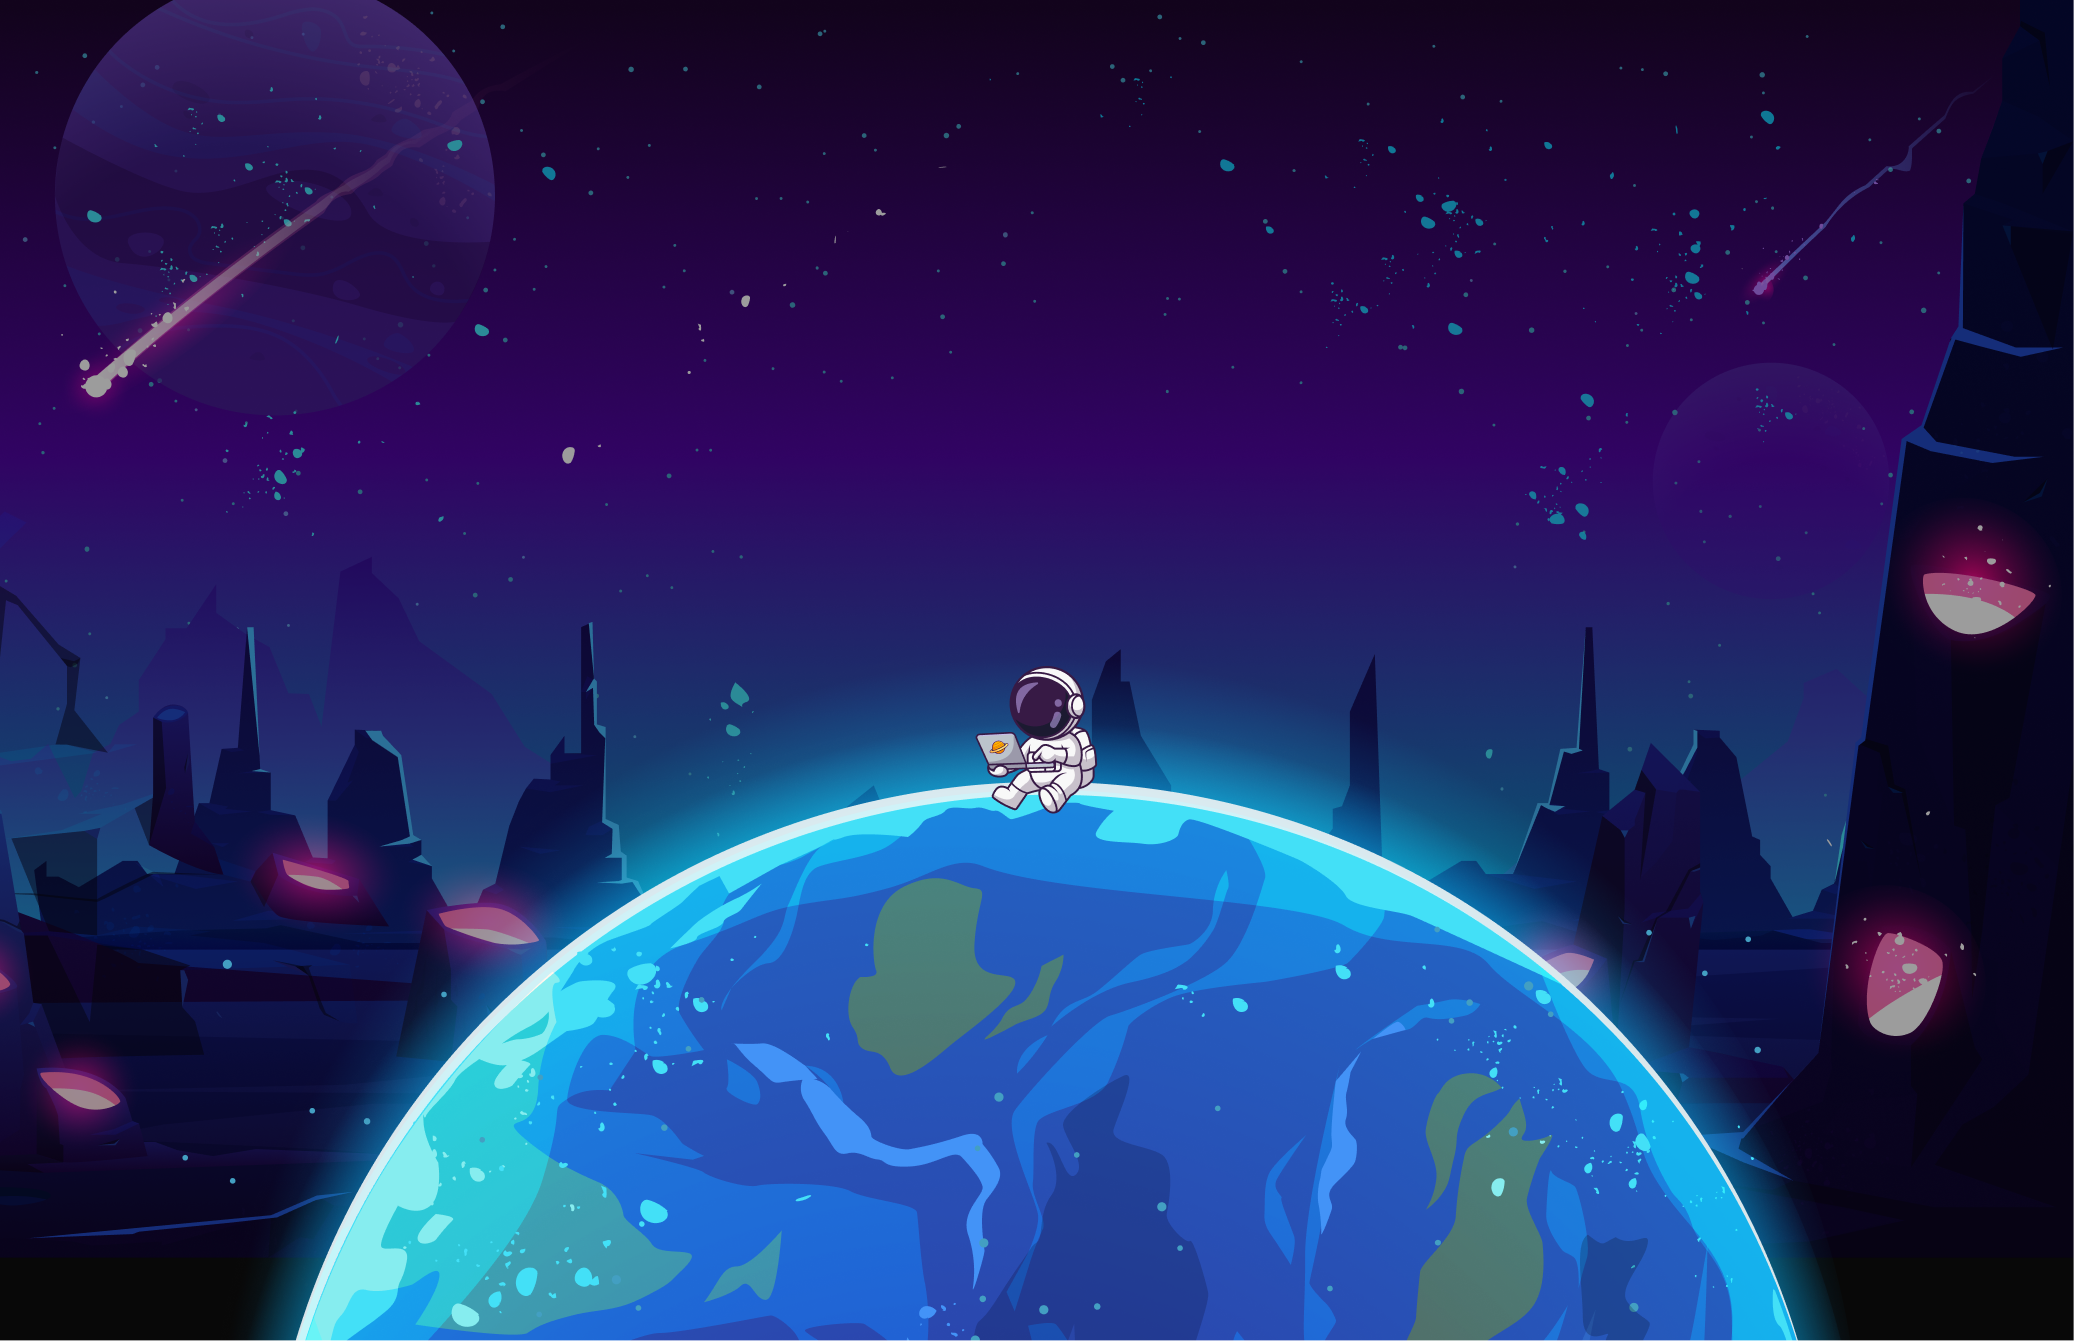
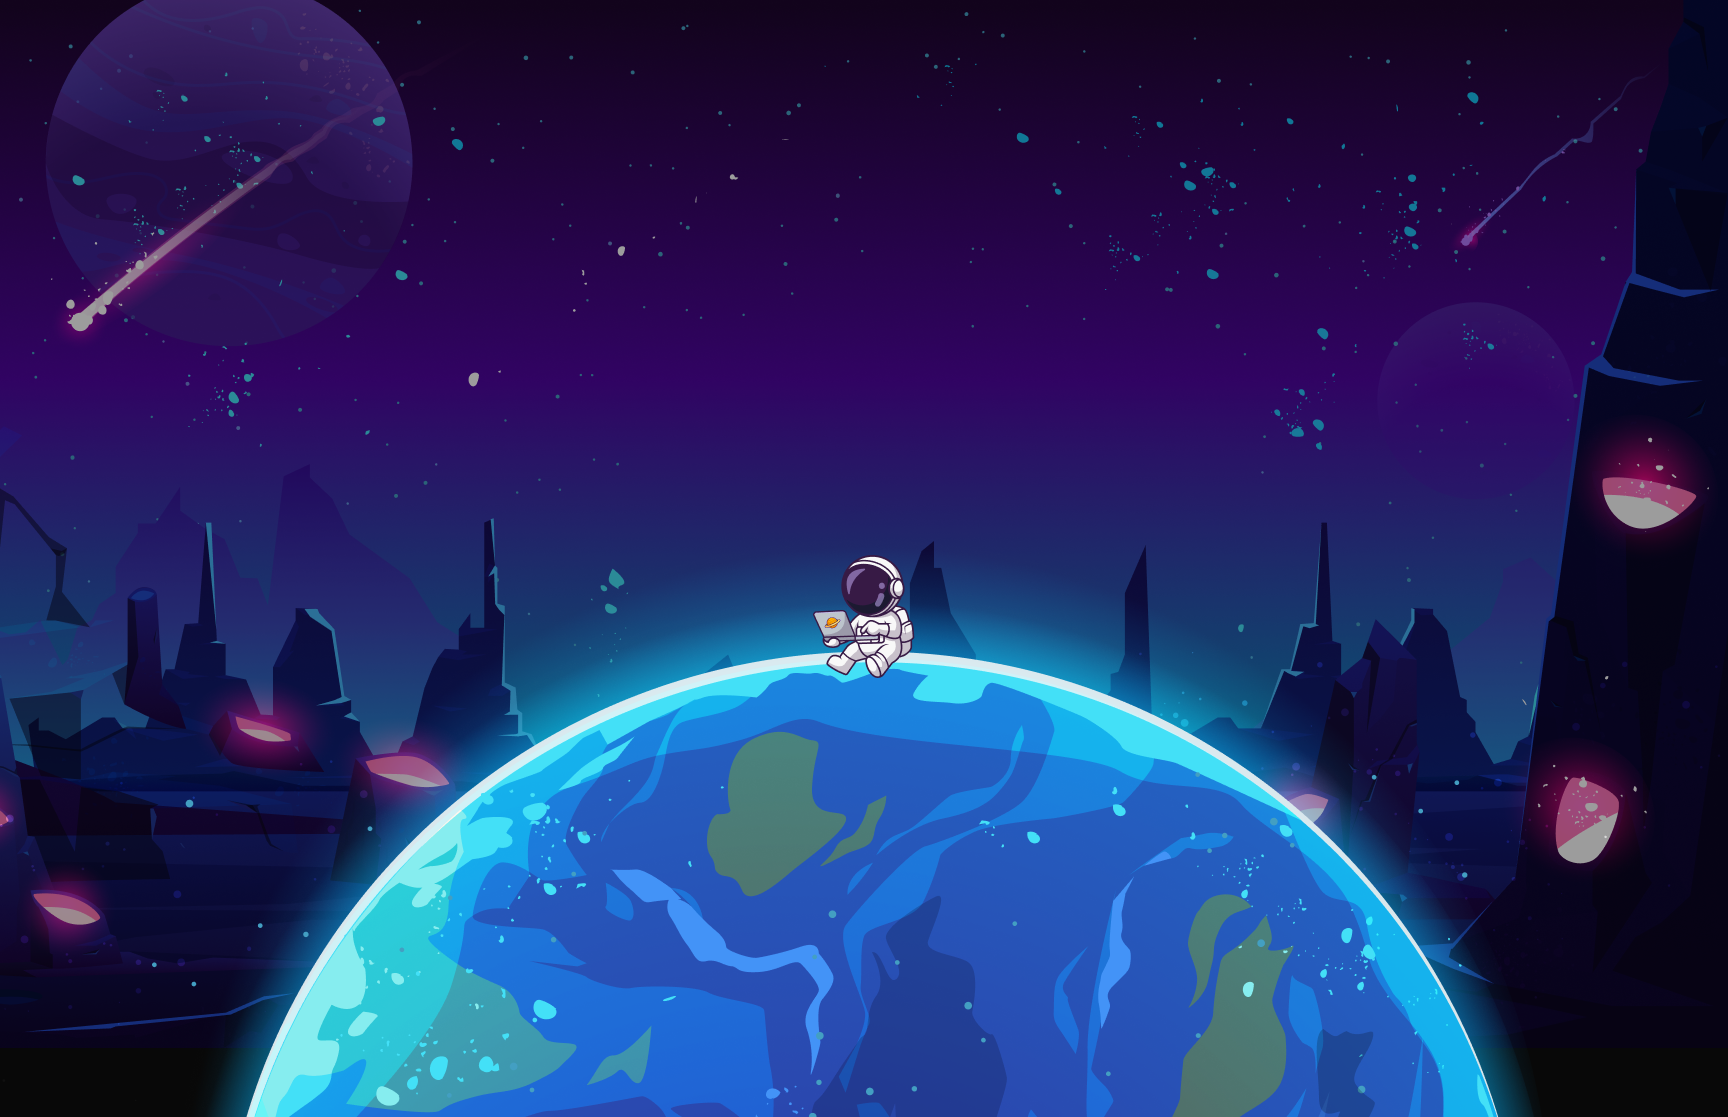
Atualizando

Changed region(s): [[0.4688, 0.5175, 0.5312, 0.6088], [0.9062, 0.7305, 0.9375, 0.761], [0.8438, 0.974, 0.875, 1.0]]

diff --git a/index.html b/index.html
@@ -20,6 +20,9 @@
     <link rel="preconnect" href="https://fonts.googleapis.com">
 <link rel="preconnect" href="https://fonts.gstatic.com" crossorigin>
 <link href="https://fonts.googleapis.com/css2?family=Poppins:ital@0;1&family=Roboto+Mono:ital,wght@1,500&family=Roboto:wght@400;500;700&display=swap" rel="stylesheet">
+<link rel="preconnect" href="https://fonts.googleapis.com">
+<link rel="preconnect" href="https://fonts.gstatic.com" crossorigin>
+<link href="https://fonts.googleapis.com/css2?family=Bebas+Neue&family=Orbitron:wght@500&display=swap" rel="stylesheet">
 
 </head>
 <body>
@@ -43,28 +46,38 @@
         </nav>
       </div>
     </header>
-    <main>
+    <main class="inicial-tela">
+
         <div id="pagina-inicial">
             <article id="home">
+              <h1><a href="#contato" class="Menucont">CONTACT ME</a></h1>
               <div class="myInfo">
                  <h1 class="textTittle"> Olá 👋<br />
                     <span class="auto-text"></span>
                 </h1>
                 <h2 class="subtitulo">Front-end Developer</h2>
                 <p class="mytext"></p>
+                <img class="box-p" src="/img/Group19.svg">
               </div>
             </article>
         </div>
     </main>
+    <div class="RdSociais">
+      <div class="ic-linkedin"><img src="/img/linkedin.svg" class="linkedin"></div>
+      <div class="ic-github"><img src="/img/github.svg" class="github"></div>
+      <div class="ic-insta"><img src="/img/insta.svg" class="instagram"></div>
+    </div>
     <article id="aboutme">
       <div class="sobre">
         <div class="aboutmetext">
           <h1 class="me">Sobre Mim</h1>
+          
           <p class="me-p"> Olá, meu nome é Breno Vasconcelos e sou um entusiasta da tecnologia e da área Geek.<br/> Atualmente, estou em transição de carreira e busco oportunidades de estágio na área de Front-End, na qual tenho grande interesse e prazer em aprender.
             Tenho 21 anos, moro e estudo em São Paulo e já possuo conhecimento em HTML, JavaScript e CSS. Além disso, estou estudando ReactJs e Node.JS para aprimorar minhas habilidades.<br>
             Estou aberto a oportunidades de estágio, freelancer e contratos temporários na área. <br/>Ficarei grato se puderem me oferecer uma chance para demonstrar minhas habilidades e conhecimentos.</p>
         </div>
         </div>
+        
         
          
           <article class="tecnologias" id="tecnologias">

diff --git a/css/pagina-inicial.css b/css/pagina-inicial.css
@@ -1,17 +1,35 @@
 #pagina-inicial{
     padding: 250px 120px 20px 150px;
-    width: 1980px;
+    
     height: 950px;
 
     
 }
 #pagina-inicial{
     background-image: url(../img/backgroundspace.png);
-    background-repeat: no-repeat;
-    background-size: auto;
- 
+    background-size: 1920px;
+    background-position: 0px -250px;
 }
+.Menucont{
+    font-family: 'Bebas Neue';
+font-style: normal;
+font-weight: 400;
+font-size: 41px;
+line-height: 49px;
+text-align: center;
 
+color: #FFFFFF;
+
+position: relative;
+bottom: 230px;
+width: 200px;
+left: 1550px;
+
+}
+.box-p{
+    position: absolute;
+    left: 520px;
+}
 .textTittle{
     font-family: 'Roboto Mono', monospace;
     margin-bottom: 10px;
@@ -31,8 +49,33 @@
     width: 800px;
     font-size: 17px;
     color: whitesmoke;letter-spacing: 2px;
+    position: relative;
+    top: 250px;
+    left: 420px;
+    z-index: 30;
+
 }
 
 #home{
     background-color: none;
+}
+
+.RdSociais{
+    display: flex;
+flex-direction: column;
+align-items: flex-start;
+padding: 0px;
+gap: 50px;
+
+position: absolute;
+width: 46.12px;
+height: 330px;
+left: 69px;
+top: 393px;
+
+}
+
+.instagram, .github, .linkedin{
+
+    width: 30px;
 }

diff --git a/css/header.css b/css/header.css
@@ -6,7 +6,10 @@
     font-size: 20px;
     font-family: 'Roboto Mono', monospace;
     background-color: #8257e5;
-    transition: all 300ms ease-in-out;}
+    transition: all 300ms ease-in-out;
+    display: none;
+
+}
 
 .header .header-container {
     display: flex;
